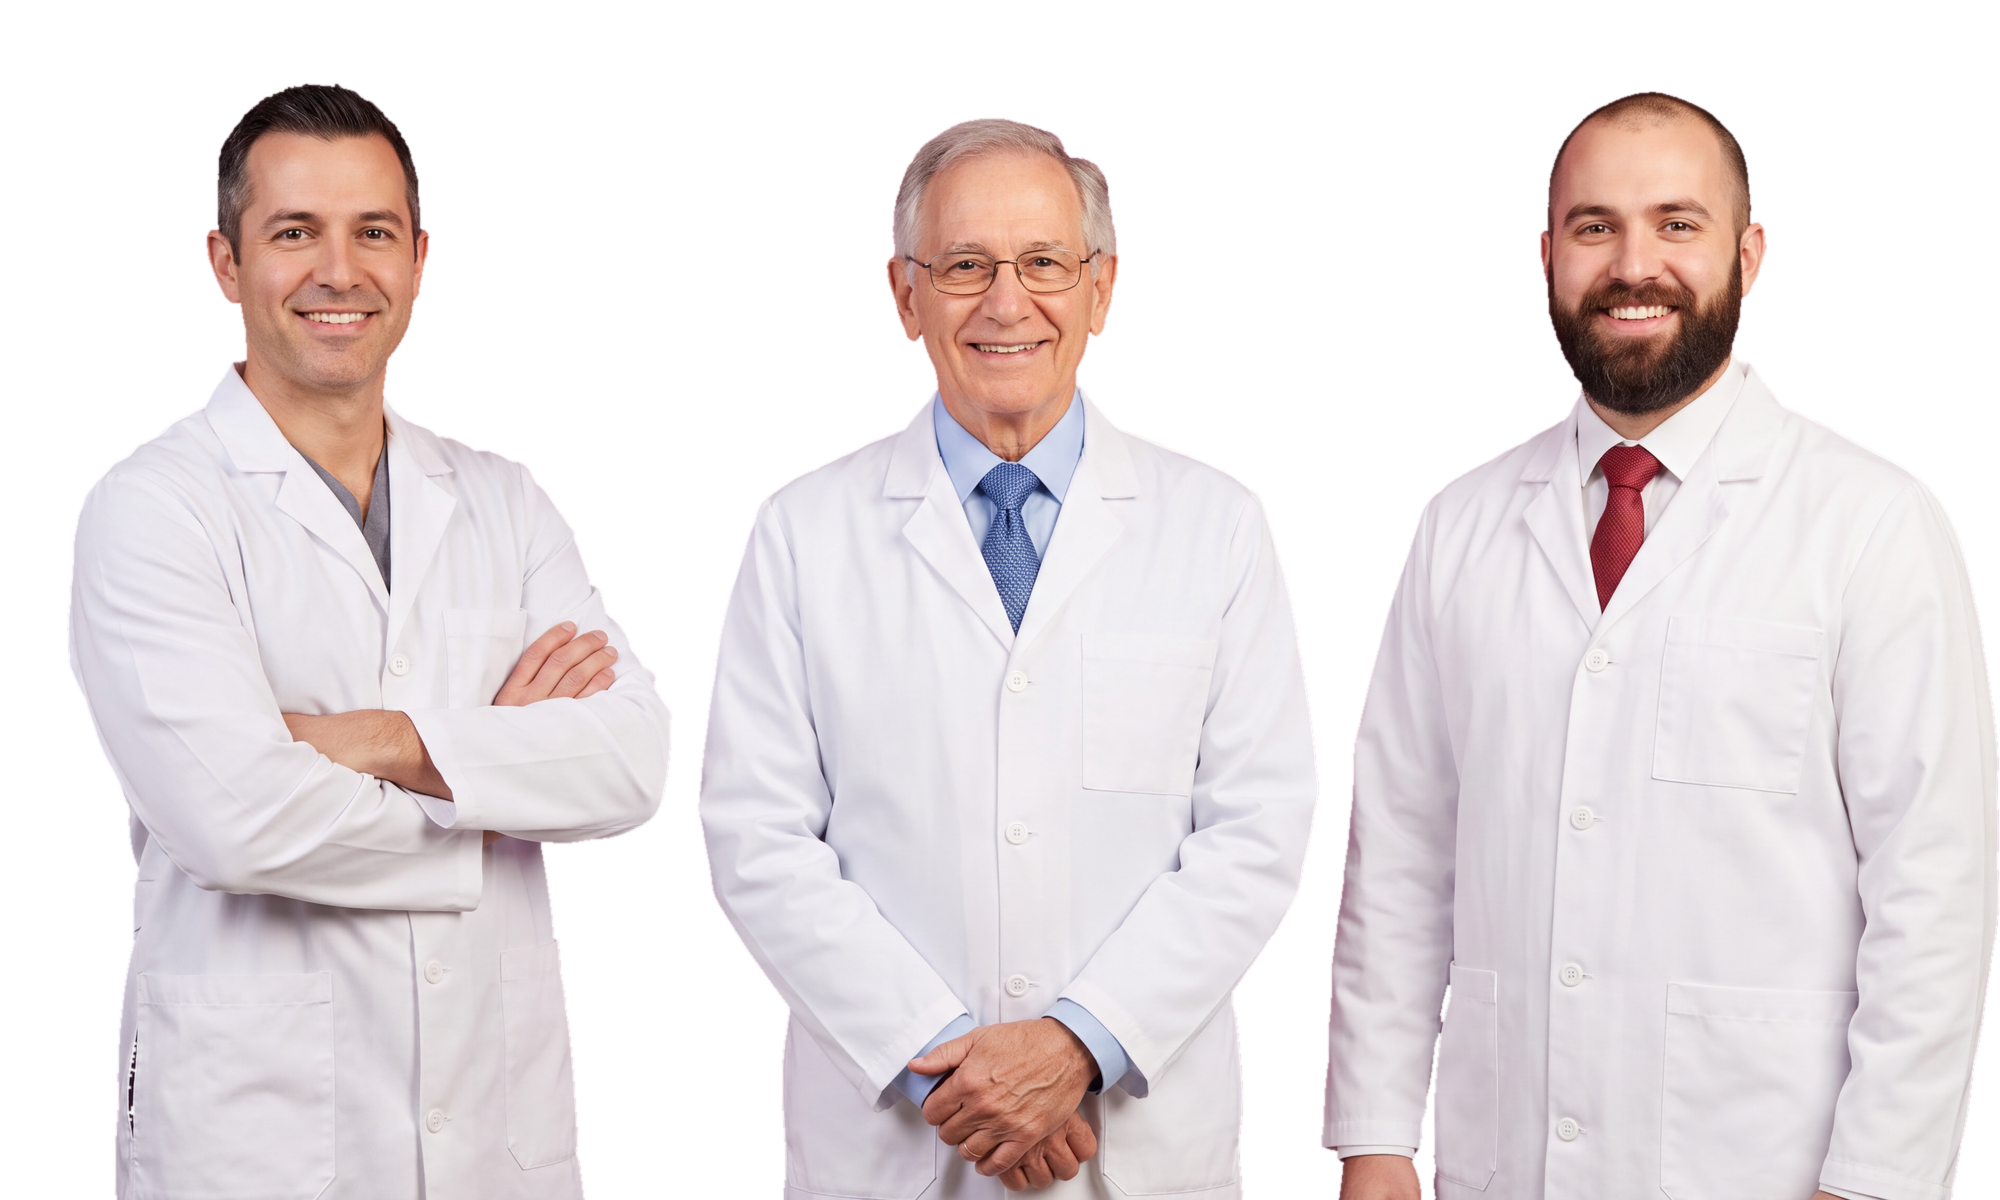
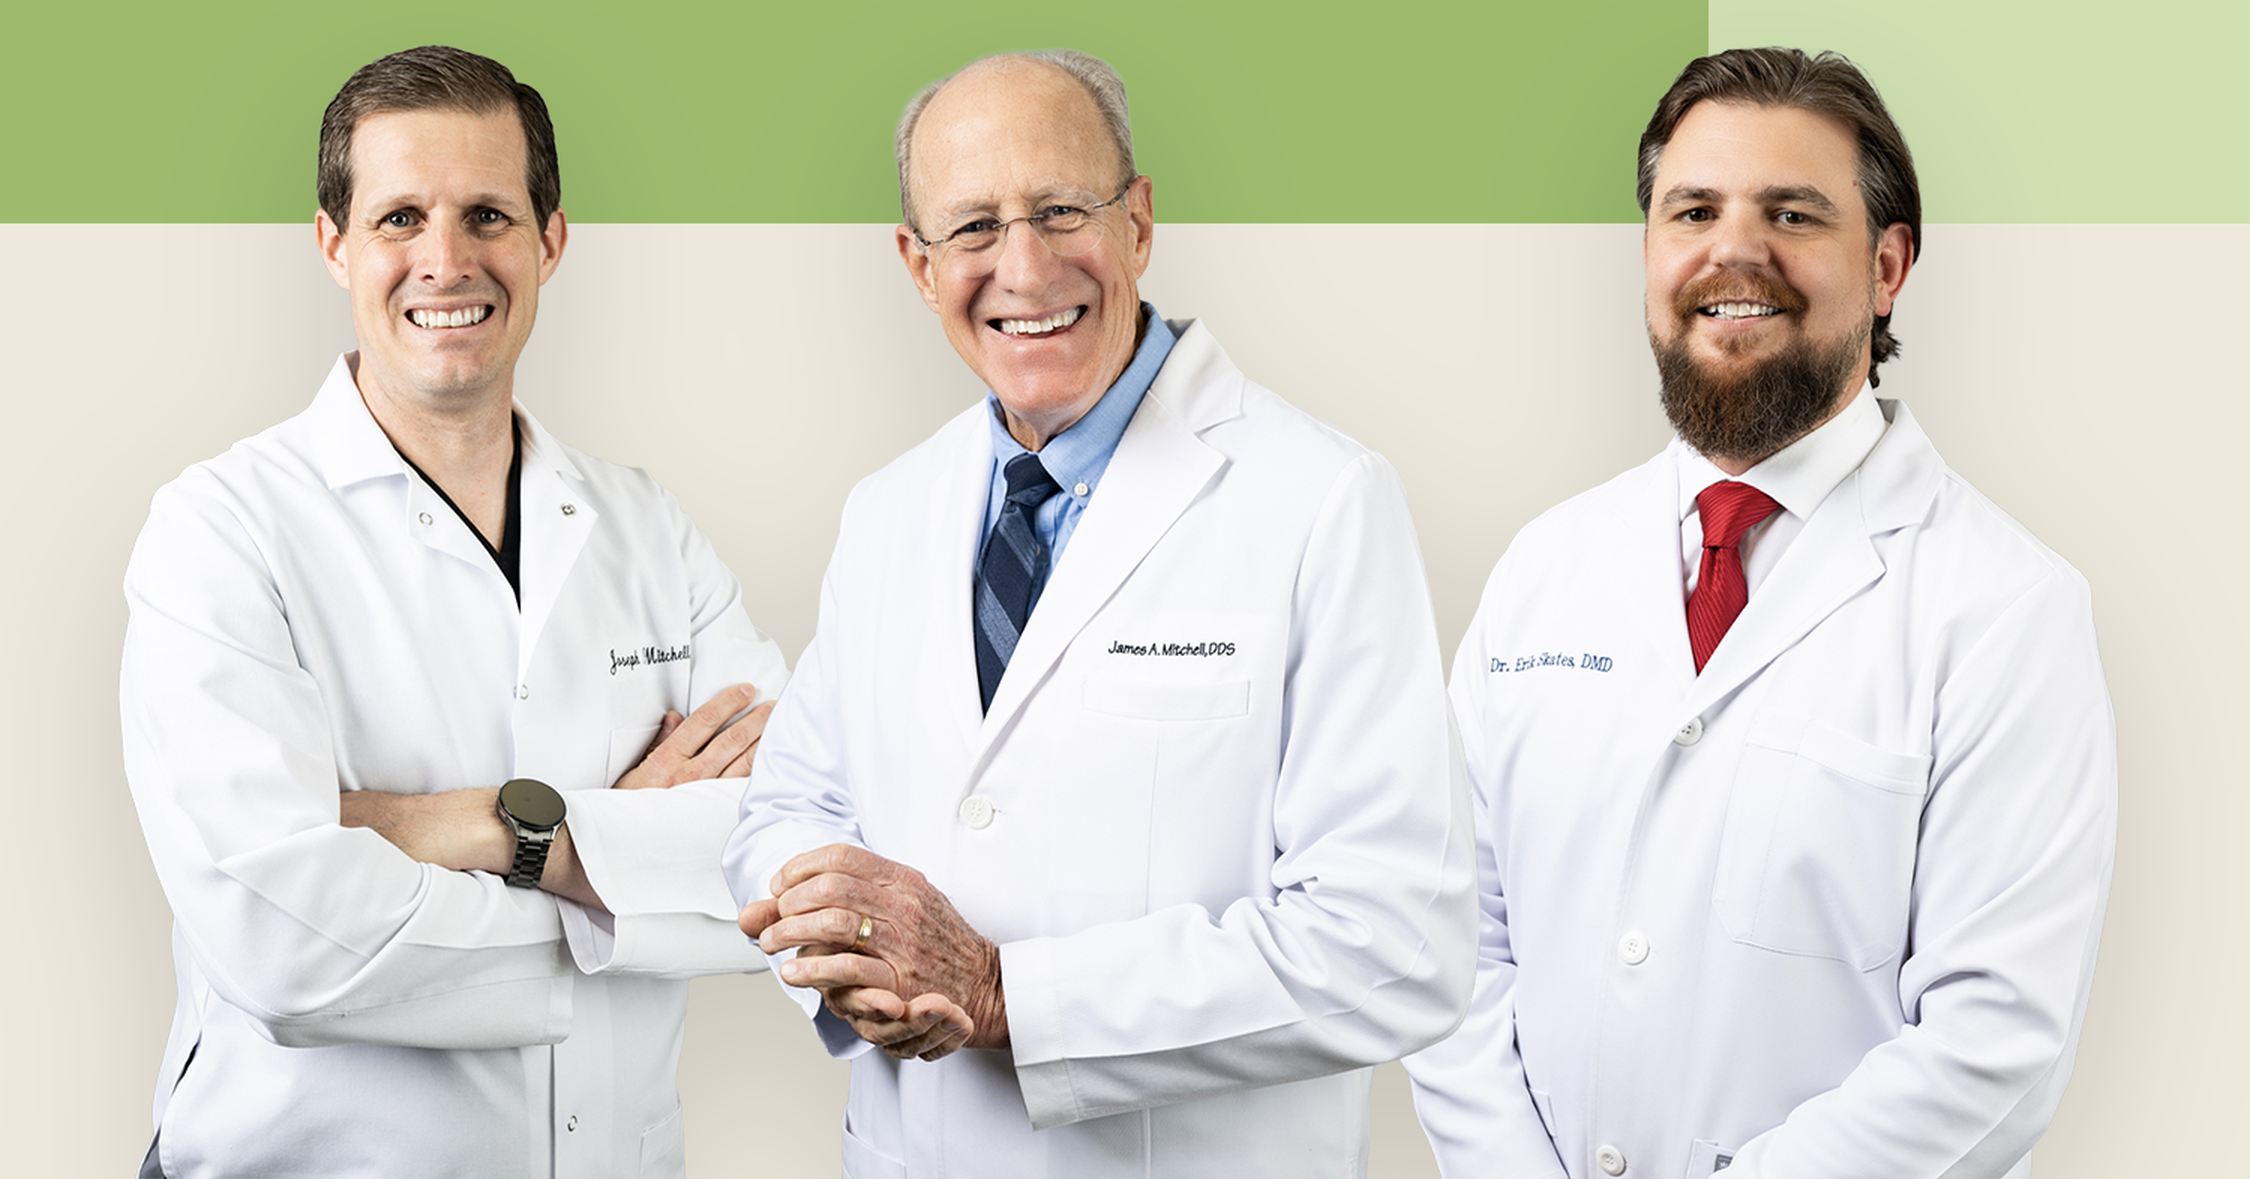
Source doctors-trio directly from client mockup; match mockup band geometry
Replaces the AI-generated doctors cutout with a Lanczos-upscaled crop of the
reference mockup (identities now exact). Band rebuilt to measured mockup
proportions: 76/24 split, aspect-ratio height, top-left heading, photo
overlap equal to the baked-in green depth so the seam is invisible.

diff --git a/styles.css b/styles.css
@@ -386,45 +386,43 @@ p:last-of-type { margin-bottom: 0; }
    ============================================================ */
 .doctors { background: var(--cream); }
 
+/* Band geometry measured from the mockup (content width 1500px):
+   band height 423, green block 75.93%, photo overlap = 149px of band
+   baked into the photo itself, so the seam is green-on-green. */
 .doctors-band {
   display: flex;
-  height: 260px;
+  aspect-ratio: 1500 / 423;
 }
 
 .band-green {
-  width: 78%;
-  background: var(--green);
-  display: flex;
-  align-items: center;
-  justify-content: center;
-  padding-bottom: 30px;
+  width: 75.93%;
+  background: #9DBA6D; /* sampled from mockup so the baked photo band matches */
+  padding: 8.27% 0 0 13.07%;
 }
 .band-green h2 {
   color: #fff;
-  text-align: center;
+  text-align: left;
+  font-size: clamp(22px, 2.93vw, 46px);
+  line-height: 1.18;
   margin: 0;
 }
 
 .band-accent {
   flex: 1;
-  background: var(--green-light);
+  background: #CFE0B1; /* sampled from mockup */
 }
 
 .doctors-photo {
   position: relative;
   z-index: 2;
-  margin-top: -140px;
-  max-width: 1160px;
-  margin-left: auto;
-  margin-right: auto;
-  padding: 0 24px;
+  margin-top: -9.933%; /* = baked green depth (149/1500 of width) */
+  line-height: 0;
 }
-.doctors-photo img { width: 100%; }
+.doctors-photo img { width: 100%; height: auto; display: block; }
 
 .doctors-bios {
   background: var(--sage);
   padding: 76px 48px 84px;
-  margin-top: -6px;
 }
 
 .doctors-bios {
@@ -777,10 +775,9 @@ p:last-of-type { margin-bottom: 0; }
   }
   .practice-copy { padding: 64px 24px 80px; max-width: none; }
 
-  .doctors-band { height: auto; }
-  .band-green { padding: 56px 24px 90px; }
-  .band-accent { display: none; }
-  .doctors-photo { margin-top: -70px; }
+  .doctors-band { aspect-ratio: auto; }
+  .band-green { padding: 44px 20px 56px 24px; }
+  .band-green h2 { font-size: 22px; }
   .doctors-bios { grid-template-columns: 1fr; gap: 44px; padding: 60px 24px 68px; }
   .bio-col { max-width: 480px; }
 
@@ -816,7 +813,7 @@ p:last-of-type { margin-bottom: 0; }
   .trust-grid { grid-template-columns: 1fr; gap: 48px; }
   .trust-bar { padding: 72px 24px; }
 
-  .band-green h2 { font-size: 26px; }
+  .band-green h2 { font-size: 19px; }
 
   .heron-banner img { height: 200px; }
 

diff --git a/index.html b/index.html
@@ -246,7 +246,7 @@
     <div class="doctors-photo">
       <picture>
         <source srcset="images/doctors-trio.webp" type="image/webp">
-        <img src="images/doctors-trio.png" alt="Dr. Joe Mitchell, Dr. James Mitchell, and Dr. Eric Skates standing together in white clinical coats" width="2000" height="1200" loading="lazy">
+        <img src="images/doctors-trio.png" alt="Dr. Joe Mitchell, Dr. James Mitchell, and Dr. Eric Skates standing together in white clinical coats" width="2250" height="1179" loading="lazy">
       </picture>
     </div>
     <div class="doctors-bios">
